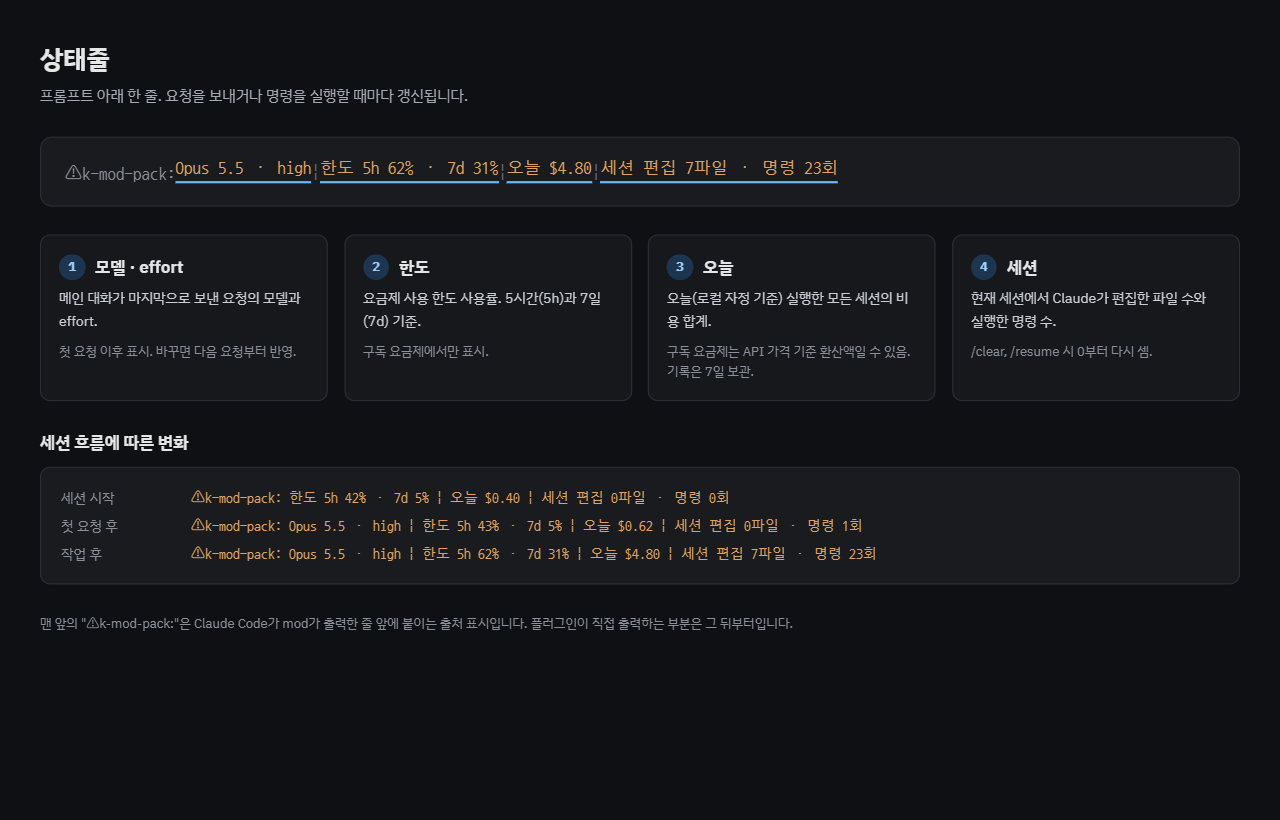
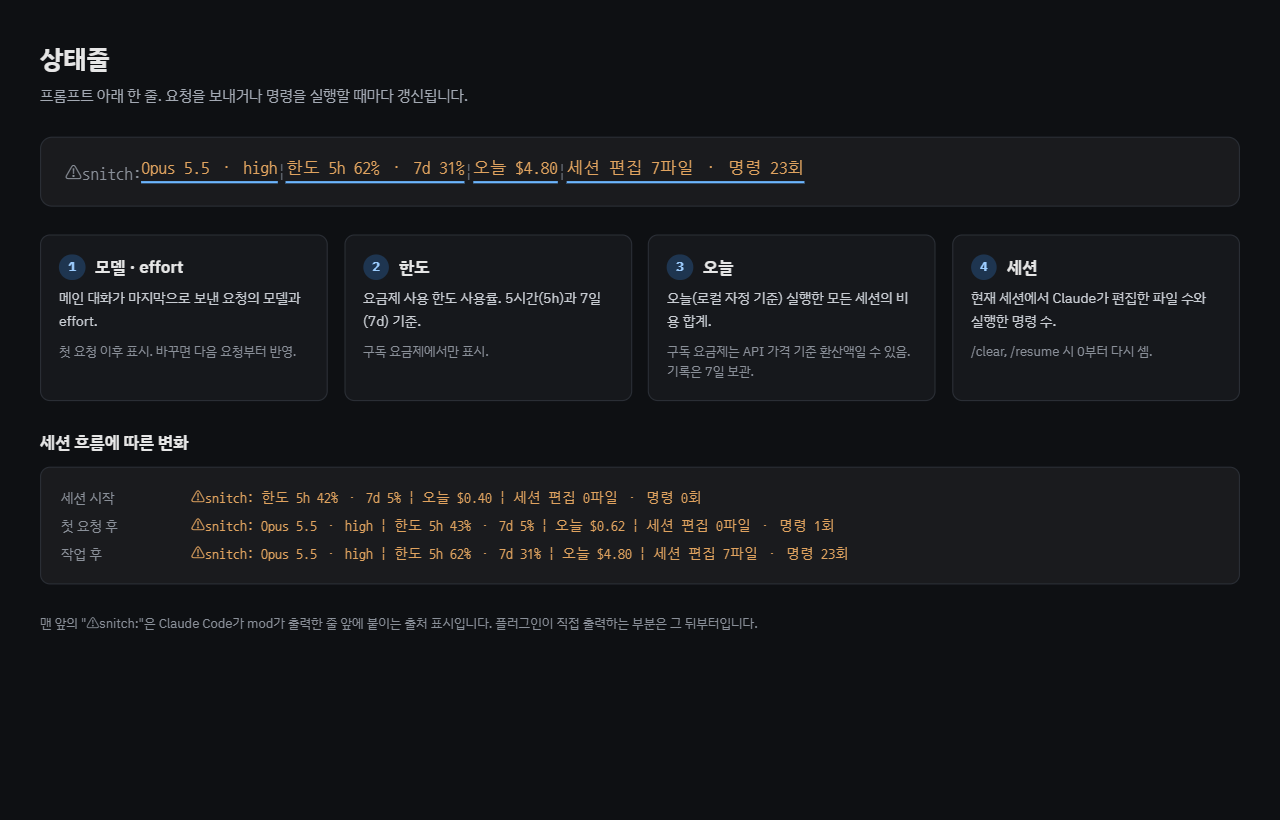
Answer /changes on failure, refresh README images
- Add a .catch to the /changes hook so a failure or timeout replies
  with a message instead of leaving the command unanswered
- Replace README images that still showed the old k-mod-pack name,
  and use a terminal-only screenshot as the hero image

Changed region(s): [[0.1562, 0.5793, 0.6875, 0.7012], [0.0625, 0.1829, 0.6562, 0.2439], [0.0938, 0.7317, 0.5938, 0.7927]]

diff --git a/hooks/register.tsx b/hooks/register.tsx
@@ -387,7 +387,8 @@ export function register(on: On) {
 
   /**
    * /changes: 패널 열기 / 닫기.
-   * "/changes text" 이거나 전체화면에서 PANE_MIN_COLUMNS 보다 좁으면 텍스트로 출력
+   * "/changes text" 이거나 전체화면에서 PANE_MIN_COLUMNS 보다 좁으면 텍스트로 출력.
+   * 실패하거나 시간을 넘기면 안내 문구로 응답
    */
   on('command.run', { command: C.CHANGES_COMMAND }, async ($, e, next) => {
     if (!repoRoot || !host) {
@@ -411,7 +412,7 @@ export function register(on: On) {
     await host.openPane(Math.min(L.panelRows(commits, current), 24))
     isPaneOpen = true
     return {}
-  })
+  }).catch(() => ({ text: '작업 파일을 불러오지 못했어요. 잠시 후 다시 시도해 주세요.' }))
 
   /** 전체화면 레이아웃이면 세션당 한 번 패널 자동 열기 */
   on('ui.render', { component: 'PromptHint' }, ($, e, next) => {

diff --git a/README.md b/README.md
@@ -2,7 +2,7 @@
 
 Claude가 한 일을 전부 일러바치는 Claude Code mod입니다. 무슨 파일을 고쳤는지, 커밋은 했는지, 오늘 얼마를 썼는지, 다른 세션이 같은 파일을 건드리는지 옆에서 계속 알려 줍니다.
 
-![snitch 적용 화면](docs/images/screen-interactive.png)
+![snitch 적용 화면](docs/images/screen.png)
 
 - **요구 사항**: Claude Code v2.1.287 이상 (CLI, 데스크톱 앱 Code 탭)
 - **지원 OS**: macOS, Linux, Windows
